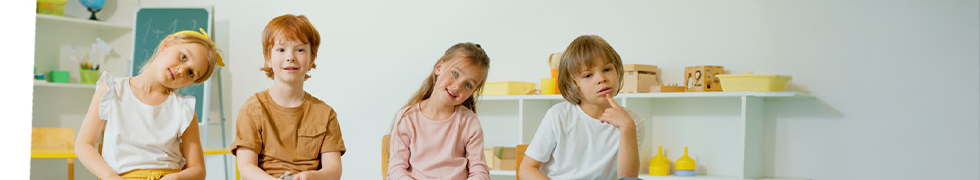
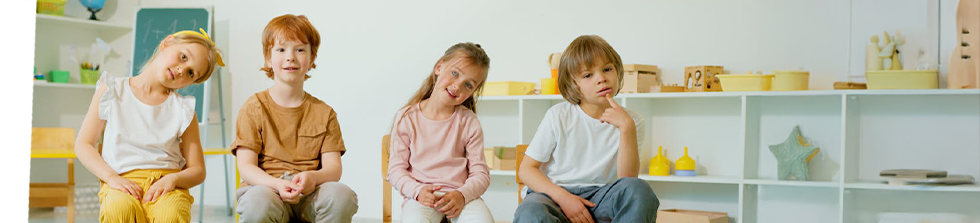
Dodano nową funkcjonalność

diff --git a/index.html b/index.html
@@ -118,9 +118,9 @@
             <picture class="hero-img">
                 <source srcset="assets/img/bg-desktop-home-hero.png" media="(min-width:1081px)" type="image/webp"
                     class="img-desktop" alt="Nauczielka prowadząca kursy dla dzieci.">
-                <source srcset="assets/img/bg-mobile-home-hero.webp" type="image/webp" class="img-mobile"
+                <source srcset="assets/img/bg-mobile-home-hero.png" type="image/webp" class="img-mobile"
                     alt="Nauczielka prowadząca kursy dla dzieci.">
-                <img src="assets/img/bg-desktop-home-hero.jpg" alt="Nauczielka prowadząca kursy dla dzieci.">
+                <img src="assets/img/bg-desktop-home-hero.png" alt="Nauczielka prowadząca kursy dla dzieci.">
             </picture>
         </section>
         <section class="content-section">
@@ -208,13 +208,11 @@
                 </div>
             </article>
             <picture class="about-img">
-                <source srcset="assets/img/bg-desktop-home-about.png" media="(min-width:1081px)" type="image/png"
+                <source srcset="assets/img/bg-desktop-home-onas.png" media="(min-width:1081px)" type="image/png"
                     class="img-desktop" alt="Nauczielka prowadząca kursy dla dzieci.">
-                <source srcset="assets/img/bg-tablet-home-about.png" type="image/png" class="img-tablet"
+                <source srcset="assets/img/bg-mobile-home-onas.png" type="image/png" class="img-mobile"
                     alt="Nauczielka prowadząca kursy dla dzieci.">
-                <source srcset="assets/img/bg-mobile-home-about.png" type="image/png" class="img-mobile"
-                    alt="Nauczielka prowadząca kursy dla dzieci.">
-                <img src="assets/img/bg-desktop-home-about.png" alt="Dzieci w szkole.">
+                <img src="assets/img/assets/img/bg-desktop-home-onas.png" alt="Dzieci w szkole.">
             </picture>
         </section>
         <section class="clients-logo-section">
